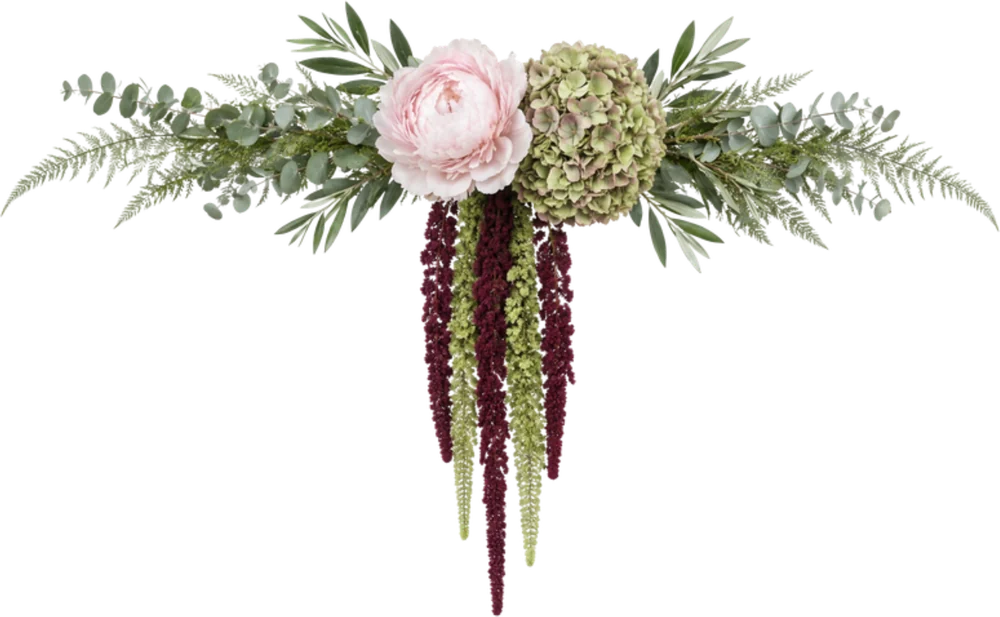
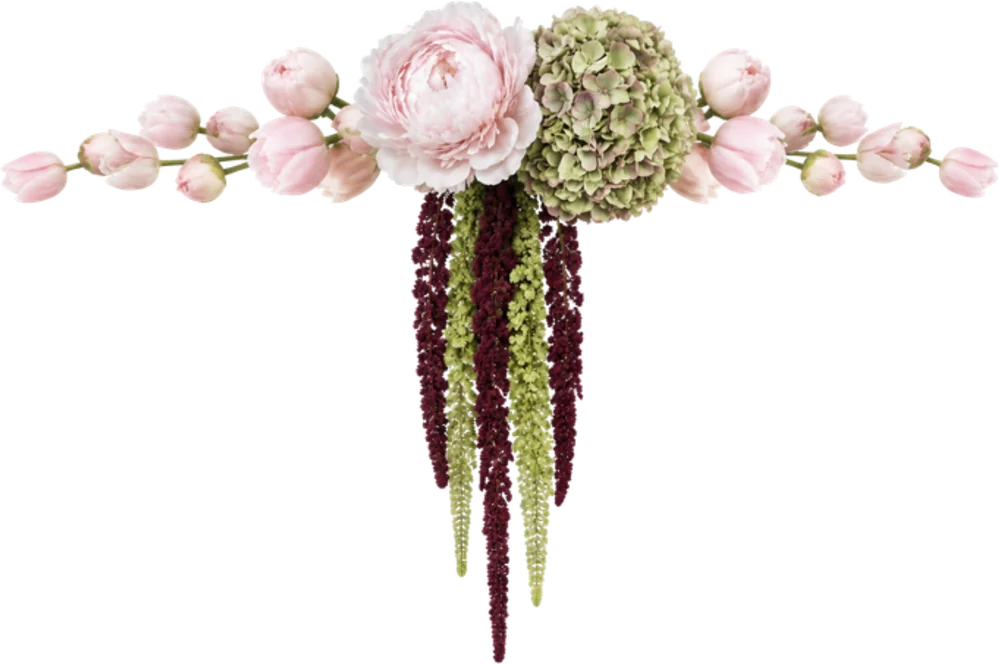
Lighten the site, rename to Will, remove foliage from the florals
Hero moves to blush satin, the menu and lightbox to ivory, and the gallery
to a blush version of the embossed tulips; burgundy is kept for the footer
and one satin ribbon. Florals regenerated without eucalyptus or leaves,
keeping the amaranth and green hydrangeas.

Claude-Session: https://claude.ai/code/session_01P6bUrAQ4XoHwQfKsZ6uaZi

Changed region(s): [[0.0, 0.0, 1.0, 1.0]]

diff --git a/css/styles.css b/css/styles.css
@@ -1,5 +1,5 @@
 /* ==========================================================================
-   Katie & William — stylesheet
+   Katie & Will — stylesheet
    Colours and fonts are NOT set here: they come from config.js (see the
    --variables below, which js/boot.js fills in). Images live in /images.
 
@@ -63,25 +63,27 @@ html:not([data-rsvp="open"]) [data-rsvp-only] { display: none !important; }
   background: var(--ivory) url("../images/textures/paper-ivory.jpg") 0 0 / 280px 280px;
 }
 
-/* blush damask, kept faint over ivory */
+/* blush damask over ivory */
 .section--damask { background: var(--ivory); }
 .section--damask::before {
   content: ""; position: absolute; inset: 0; z-index: -1;
   background: url("../images/textures/damask-blush.jpg") center top / 520px auto;
-  opacity: .36;
+  opacity: .42;
 }
 
-/* deep burgundy paper with the embossed tulips */
-.section--dark,
+/* blush paper with the embossed tulips, tone on tone */
+.section--tulip {
+  background: var(--petal) url("../images/textures/tulip-emboss-blush.jpg") center top / 640px auto;
+}
+
+/* the one deep note: burgundy paper with the embossed tulips, for the footer */
 .footer {
   color: var(--text-on-dark);
-  background: var(--black-cherry) url("../images/textures/tulip-emboss-burgundy.jpg") center top / 640px auto;
+  background: var(--cabernet) url("../images/textures/tulip-emboss-burgundy.jpg") center top / 640px auto;
 }
-.section--dark::before,
 .footer::before {
   content: ""; position: absolute; inset: 0; z-index: -1;
-  background:
-    linear-gradient(to bottom, rgba(36, 12, 14, .55), rgba(36, 12, 14, .22) 22%, rgba(36, 12, 14, .22) 78%, rgba(36, 12, 14, .6));
+  background: linear-gradient(to bottom, rgba(36, 12, 14, .3), rgba(36, 12, 14, 0) 30%, rgba(36, 12, 14, 0) 70%, rgba(36, 12, 14, .35));
 }
 
 /* Deckled handmade paper. One image, cut in nine: torn corners stay put,
@@ -120,8 +122,6 @@ html:not([data-rsvp="open"]) [data-rsvp-only] { display: none !important; }
   text-transform: uppercase;
   color: var(--cabernet);
 }
-.section--dark .heading { color: var(--text-on-dark); }
-.section--dark .label   { color: var(--petal); opacity: .8; }
 
 .subheading {
   font-family: var(--font-heading);
@@ -181,7 +181,7 @@ html:not([data-rsvp="open"]) [data-rsvp-only] { display: none !important; }
 }
 .button:hover, .button:focus-visible { background: var(--petal); color: var(--cabernet); }
 
-/* scalloped lace hem where an ivory section meets a burgundy one */
+/* scalloped lace hem along the top of the burgundy footer */
 .lace-hem {
   position: absolute; left: 0; right: 0; top: -1px; height: 54px; z-index: 1;
   background: url("../images/lace/lace-trim.webp") center top / auto 100% repeat-x;
@@ -189,19 +189,23 @@ html:not([data-rsvp="open"]) [data-rsvp-only] { display: none !important; }
   pointer-events: none;
 }
 
-/* a band of blush satin where the burgundy gallery gives way to the registry */
-.satin-ribbon {
-  position: absolute; left: 0; right: 0; top: 0; height: 64px;
-  background: var(--petal) url("../images/textures/satin-blush.jpg") center 38% / cover;
-  box-shadow: 0 10px 18px -12px rgba(82, 23, 28, .45), inset 0 8px 12px -10px rgba(36, 12, 14, .5);
+/* a slim band of burgundy satin under a lace edge, between two light sections */
+.ribbon {
+  position: absolute; left: 0; right: 0; top: 0; height: 46px; z-index: 1;
+  background: var(--cabernet) url("../images/textures/satin-burgundy.jpg") center 42% / cover;
+  box-shadow: 0 10px 16px -12px rgba(82, 23, 28, .5);
+}
+.ribbon::before {
+  content: ""; position: absolute; left: 0; right: 0; top: -1px; height: 44px;
+  background: url("../images/lace/lace-trim.webp") center top / auto 100% repeat-x;
 }
 
 /* ---------- 3. Navigation ------------------------------------------------- */
 .nav {
   position: sticky; top: 0; z-index: 20;
   height: 56px;
-  background: rgba(36, 12, 14, .9);
-  border-bottom: 1px solid rgba(176, 141, 87, .38);
+  background: rgba(247, 241, 234, .9);
+  border-bottom: 1px solid rgba(176, 141, 87, .45);
   -webkit-backdrop-filter: blur(6px); backdrop-filter: blur(6px);
 }
 .nav__list { display: flex; justify-content: center; align-items: center; gap: 44px; height: 100%; }
@@ -214,12 +218,12 @@ html:not([data-rsvp="open"]) [data-rsvp-only] { display: none !important; }
   margin-right: -.34em;
   text-transform: uppercase;
   text-decoration: none;
-  color: var(--text-on-dark);
-  opacity: .78;
+  color: var(--cabernet);
+  opacity: .85;
   border-bottom: 1px solid transparent;
   transition: color .3s ease, border-color .3s ease, opacity .3s ease;
 }
-.nav a:hover, .nav a:focus-visible { color: var(--petal); opacity: 1; border-bottom-color: var(--gold); }
+.nav a:hover, .nav a:focus-visible { color: var(--rosewood); opacity: 1; border-bottom-color: var(--gold); }
 
 /* ---------- 4. Home (hero) ------------------------------------------------ */
 .hero {
@@ -230,30 +234,28 @@ html:not([data-rsvp="open"]) [data-rsvp-only] { display: none !important; }
   padding: 150px 24px 120px;
   overflow: hidden;
   isolation: isolate;
-  background: var(--black-cherry) url("../images/textures/satin-burgundy.jpg") center / cover no-repeat;
+  background: var(--petal) url("../images/textures/satin-blush.jpg") center / cover no-repeat;
 }
-.hero::before {                             /* candle-lit: darker toward the edges */
+.hero::before {                             /* soft light from the centre */
   content: ""; position: absolute; inset: 0; z-index: 0;
-  background:
-    radial-gradient(ellipse 75% 70% at 50% 46%, rgba(36, 12, 14, .18), rgba(36, 12, 14, .78) 100%),
-    linear-gradient(to bottom, rgba(36, 12, 14, .5), rgba(36, 12, 14, 0) 26%, rgba(36, 12, 14, 0) 72%, rgba(36, 12, 14, .82));
+  background: radial-gradient(ellipse 70% 65% at 50% 46%, rgba(247, 241, 234, .5), rgba(247, 241, 234, 0) 100%);
 }
 .hero__lace {                               /* ivory Chantilly lace, draped diagonally */
   position: absolute; top: 0; right: 0; z-index: 1;
   height: 106%; width: auto; max-width: none;
-  filter: drop-shadow(-10px 22px 26px rgba(16, 4, 6, .5));
+  filter: brightness(1.08) drop-shadow(-5px 9px 7px rgba(110, 52, 58, .42)) drop-shadow(-14px 26px 30px rgba(110, 52, 58, .22));
   pointer-events: none; user-select: none;
 }
-.hero::after {                              /* lets the lace fall into shadow at the foot of the page */
-  content: ""; position: absolute; left: 0; right: 0; bottom: 0; height: 26%; z-index: 1;
-  background: linear-gradient(to bottom, rgba(36, 12, 14, 0), rgba(36, 12, 14, .7));
+.hero::after {                              /* the satin melts into the paper below */
+  content: ""; position: absolute; left: 0; right: 0; bottom: 0; height: 90px; z-index: 1;
+  background: linear-gradient(to bottom, rgba(247, 241, 234, 0), var(--ivory));
   pointer-events: none;
 }
 .hero__stage { position: relative; z-index: 2; width: min(100%, 800px); }
 .hero__card  { text-align: center; padding: 50px 22px 44px; z-index: 1; }
 
 /* flowers wrap two opposite corners of the card and trail along its edges */
-.hero__floral { position: absolute; z-index: 2; height: auto; filter: drop-shadow(0 14px 16px rgba(16, 4, 6, .42)); }
+.hero__floral { position: absolute; z-index: 2; height: auto; filter: drop-shadow(0 12px 14px rgba(82, 23, 28, .28)); }
 .hero__floral--top    { width: 520px; left: -172px; top: -150px; }
 .hero__floral--bottom { width: 520px; right: -172px; bottom: -150px; }
 
@@ -338,7 +340,7 @@ html:not([data-rsvp="open"]) [data-rsvp-only] { display: none !important; }
   display: block; width: 100%; margin: 0; padding: 9px;
   border: 0; border-radius: 0; cursor: zoom-in;
   background: var(--ivory) url("../images/textures/paper-ivory.jpg") 0 0 / 280px 280px;   /* thin paper border */
-  box-shadow: 0 22px 34px -18px rgba(12, 3, 4, .8), 0 2px 5px rgba(12, 3, 4, .35);
+  box-shadow: 0 20px 30px -18px rgba(82, 23, 28, .55), 0 2px 5px rgba(82, 23, 28, .18);
 }
 .gallery__item img { width: 100%; aspect-ratio: 4 / 5; object-fit: cover; transition: opacity .4s ease; }
 .gallery__item:hover img, .gallery__item:focus-visible img { opacity: .86; }
@@ -347,7 +349,7 @@ html:not([data-rsvp="open"]) [data-rsvp-only] { display: none !important; }
   position: fixed; inset: 0; z-index: 50;
   display: grid; grid-template-columns: 1fr auto 1fr; align-items: center; gap: 28px;
   padding: 72px 32px 40px;
-  background: rgba(30, 9, 11, .96);
+  background: rgba(247, 241, 234, .97);
   opacity: 0; transition: opacity .35s ease;
 }
 .lightbox[hidden] { display: none; }
@@ -357,16 +359,16 @@ html:not([data-rsvp="open"]) [data-rsvp-only] { display: none !important; }
   max-width: min(82vw, 900px); max-height: calc(100vh - 150px); width: auto;
   padding: 10px;
   background: var(--ivory) url("../images/textures/paper-ivory.jpg") 0 0 / 280px 280px;
-  box-shadow: 0 30px 60px -20px rgba(0, 0, 0, .7);
+  box-shadow: 0 30px 60px -24px rgba(82, 23, 28, .55), 0 2px 6px rgba(82, 23, 28, .15);
 }
 .lightbox button {
   background: none; border: 0; padding: 12px 6px; cursor: pointer;
   font-family: var(--font-heading); font-weight: 500; font-size: 12px;
   letter-spacing: .34em; text-transform: uppercase;
-  color: var(--text-on-dark); opacity: .75;
+  color: var(--cabernet); opacity: .8;
   transition: color .3s ease, opacity .3s ease;
 }
-.lightbox button:hover, .lightbox button:focus-visible { color: var(--petal); opacity: 1; }
+.lightbox button:hover, .lightbox button:focus-visible { color: var(--rosewood); opacity: 1; }
 .lightbox__close { position: absolute; top: 20px; right: 28px; }
 .lightbox__nav--prev { grid-column: 1; justify-self: end; }
 .lightbox__nav--next { grid-column: 3; justify-self: start; }
@@ -511,6 +513,8 @@ html:not([data-rsvp="open"]) [data-rsvp-only] { display: none !important; }
   .registry { gap: 40px; grid-template-columns: minmax(0, 320px); }
   .choice { display: flex; margin: 0 0 14px; }
   .lace-hem { height: 42px; }
+  .ribbon { height: 36px; }
+  .ribbon::before { height: 34px; }
   .footer { padding: 118px 0 80px; }
   .footer__names { font-size: 17px; letter-spacing: .2em; margin-right: -.2em; }
   .footer__names span, .footer__date span { display: block; }

diff --git a/index.html b/index.html
@@ -3,14 +3,14 @@
 <head>
   <meta charset="utf-8">
   <meta name="viewport" content="width=device-width, initial-scale=1">
-  <title>Katie Farnsworth &amp; William Hartman · February 20, 2027</title>
-  <meta name="description" content="Katie Farnsworth and William Hartman · February 20, 2027 · Highland Gardens, Highland, Utah.">
-  <meta name="theme-color" content="#240C0E">
+  <title>Katie Farnsworth &amp; Will Hartman · February 20, 2027</title>
+  <meta name="description" content="Katie Farnsworth and Will Hartman · February 20, 2027 · Highland Gardens, Highland, Utah.">
+  <meta name="theme-color" content="#F7F1EA">
   <link rel="icon" type="image/png" href="images/seal/favicon.png">
 
   <link rel="preconnect" href="https://fonts.googleapis.com">
   <link rel="preconnect" href="https://fonts.gstatic.com" crossorigin>
-  <link rel="preload" as="image" href="images/textures/satin-burgundy.jpg">
+  <link rel="preload" as="image" href="images/textures/satin-blush.jpg">
 
   <!-- All settings (date, RSVP switch, names, registry, colours, fonts) are in config.js -->
   <script src="config.js"></script>
@@ -37,14 +37,14 @@
     <img class="hero__lace" src="images/lace/lace-drape.webp" alt="" width="1380" height="1501">
 
     <div class="hero__stage">
-      <img class="floral hero__floral hero__floral--top" src="images/florals/hero-corner-top-left.webp" alt="" width="1200" height="1308">
-      <img class="floral hero__floral hero__floral--bottom" src="images/florals/hero-corner-bottom-right.webp" alt="" width="1200" height="1246">
+      <img class="floral hero__floral hero__floral--top" src="images/florals/hero-corner-top-left.webp" alt="" width="1200" height="1299">
+      <img class="floral hero__floral hero__floral--bottom" src="images/florals/hero-corner-bottom-right.webp" alt="" width="1200" height="1140">
 
       <div class="paper hero__card">
         <p class="label" data-phase-only="before">Together with their families</p>
         <p class="label" data-phase-only="after">With joyful hearts</p>
 
-        <h1 class="hero__names"><span data-fill="first">Katie</span> <span class="hero__amp">&amp;</span> <span data-fill="second">William</span></h1>
+        <h1 class="hero__names"><span data-fill="first">Katie</span> <span class="hero__amp">&amp;</span> <span data-fill="second">Will</span></h1>
 
         <p class="hero__status" data-phase-only="before">are getting married</p>
         <p class="hero__status" data-phase-only="after">were married on <span data-fill="dateLong">February 20, 2027</span></p>
@@ -65,7 +65,7 @@
     <section class="section section--paper" id="story">
       <div class="wrap">
         <header class="section__head">
-          <img class="floral section__floral" src="images/florals/accent-peony.webp" alt="" width="1000" height="265" loading="lazy">
+          <img class="floral section__floral" src="images/florals/accent-peony.webp" alt="" width="1000" height="199" loading="lazy">
           <p class="label">How it began</p>
           <h2 class="heading">Our Story</h2>
         </header>
@@ -104,7 +104,7 @@
             <div class="timeline__text">
               <p class="label label--ink">Spring 2026</p>
               <h3 class="subheading">Engagement</h3>
-              <p>At golden hour, with the mountains looking on, William asked and Katie said yes. We have been smiling ever since.</p>
+              <p>At golden hour, with the mountains looking on, Will asked and Katie said yes. We have been smiling ever since.</p>
             </div>
           </li>
 
@@ -126,11 +126,10 @@
     </section>
 
     <!-- ====================== GALLERY ====================== -->
-    <section class="section section--dark" id="gallery">
-      <div class="lace-hem" aria-hidden="true"></div>
+    <section class="section section--tulip" id="gallery">
       <div class="wrap wrap--wide">
         <header class="section__head">
-          <img class="floral section__floral" src="images/florals/accent-hydrangea.webp" alt="" width="1000" height="247" loading="lazy">
+          <img class="floral section__floral" src="images/florals/accent-hydrangea.webp" alt="" width="1000" height="299" loading="lazy">
           <p class="label">Portraits &amp; details</p>
           <h2 class="heading">Gallery</h2>
         </header>
@@ -148,10 +147,10 @@
 
     <!-- ====================== REGISTRY ====================== -->
     <section class="section section--damask" id="registry">
-      <div class="satin-ribbon" aria-hidden="true"></div>
+      <div class="ribbon" aria-hidden="true"></div>
       <div class="wrap">
         <header class="section__head">
-          <img class="floral section__floral" src="images/florals/accent-tulips.webp" alt="" width="1000" height="295" loading="lazy">
+          <img class="floral section__floral" src="images/florals/accent-tulips.webp" alt="" width="1000" height="216" loading="lazy">
           <p class="label">With gratitude</p>
           <h2 class="heading">Registry</h2>
           <p class="lede">Your love and presence mean the world to us. For those who have asked, we’ve registered at the following.</p>
@@ -166,7 +165,7 @@
     <section class="section section--paper" id="rsvp" data-rsvp-only>
       <div class="wrap wrap--narrow">
         <header class="section__head">
-          <img class="floral section__floral" src="images/florals/accent-amaranth.webp" alt="" width="1000" height="617" loading="lazy">
+          <img class="floral section__floral" src="images/florals/accent-amaranth.webp" alt="" width="1000" height="664" loading="lazy">
           <p class="script-touch">Kindly reply</p>
           <h2 class="heading">RSVP</h2>
         </header>
@@ -201,7 +200,7 @@
     <div class="lace-hem" aria-hidden="true"></div>
     <div class="wrap">
       <img class="footer__seal" src="images/seal/wax-seal-kw.webp" alt="K &amp; W monogram wax seal" width="560" height="560" loading="lazy">
-      <p class="footer__names"><span data-fill="firstFull">Katie Farnsworth</span> <span class="footer__amp">&amp;</span> <span data-fill="secondFull">William Hartman</span></p>
+      <p class="footer__names"><span data-fill="firstFull">Katie Farnsworth</span> <span class="footer__amp">&amp;</span> <span data-fill="secondFull">Will Hartman</span></p>
       <p class="label footer__date"><span data-fill="dateLong">February 20, 2027</span><i aria-hidden="true">·</i><span data-fill="venueCity">Highland, Utah</span></p>
       <p class="footer__thanks" data-phase-only="before">We cannot wait to celebrate with you</p>
       <p class="footer__thanks" data-phase-only="after">Thank you for sharing in our joy</p>

diff --git a/config.js b/config.js
@@ -31,9 +31,9 @@ window.WEDDING_CONFIG = {
   /* ---- Names and place --------------------------------------------------- */
   couple: {
     first: 'Katie',
-    second: 'William',
+    second: 'Will',
     firstFull: 'Katie Farnsworth',
-    secondFull: 'William Hartman'
+    secondFull: 'Will Hartman'
   },
   venue: {
     name: 'Highland Gardens',
@@ -52,9 +52,9 @@ window.WEDDING_CONFIG = {
   /* ---- Colours ------------------------------------------------------------ */
   colors: {
     cabernet:    '#52171C',   // Cabernet Velvet – headings on light, buttons, monogram
-    blackCherry: '#240C0E',   // Black Cherry – dark sections, hero satin, footer
+    blackCherry: '#240C0E',   // Black Cherry – the deepest shadows in the footer
     rosewood:    '#985B5D',   // Dusty Rosewood – script accents, small labels, hairlines
-    petal:       '#EBD6D5',   // Soft Petal – light section backgrounds, hover states
+    petal:       '#EBD6D5',   // Soft Petal – hero satin, light section backgrounds, hover states
     ivory:       '#F7F1EA',   // Ivory paper and lace
     ink:         '#2E1F2A',   // Blackberry Ink – small details only
     green:       '#8C9A6E',   // Amaranth green – a single leaf-coloured touch

diff --git a/README.md b/README.md
@@ -1,4 +1,4 @@
-# Katie & William — wedding website
+# Katie & Will — wedding website
 
 A single-page site: Home, Our Story, Gallery, Registry, RSVP (before the wedding only) and a footer.
 Plain HTML, CSS and JavaScript — no build step. Open `index.html`, or host the folder anywhere
@@ -26,7 +26,8 @@ images/
   photos/     story-01…04 and gallery-01…06 (4:5 portrait) — generated PLACEHOLDERS, replace with your own
   florals/    hero-corner-top-left / -bottom-right (around the home card) and accent-… (above each heading)
   lace/       lace-drape (hero) and lace-trim (the hem above the gallery and footer)
-  textures/   deckled paper, ivory paper, burgundy and blush satin, embossed tulips, blush damask
+  textures/   deckled paper, ivory paper, blush satin (hero), burgundy satin (ribbon), embossed tulips in
+              blush (gallery) and burgundy (footer), blush damask (registry)
   seal/       the gold K&W wax seal and the browser-tab icon
 inspo/        the original reference images
 ```
